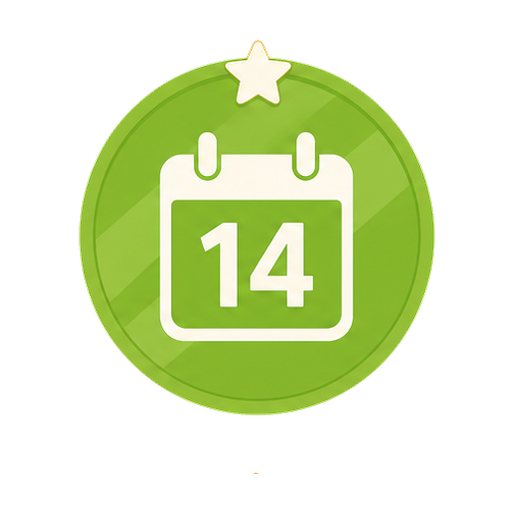
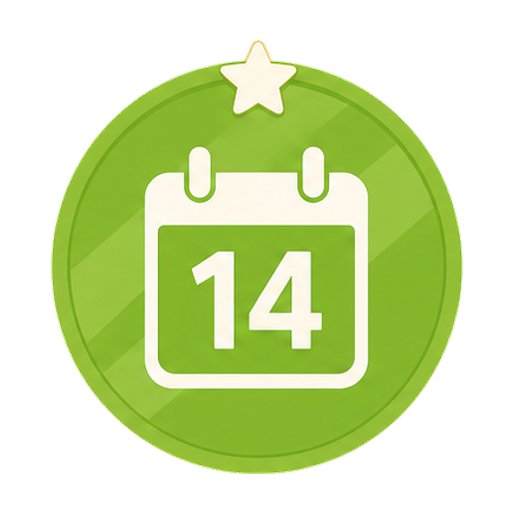
Frame badges on their artwork, not on stray specks
The daily-log badge rendered noticeably smaller than its neighbours and sat
above the centre of its slot. Six badges carry a detached speck a few pixels
across, sitting near the bottom edge of the canvas well clear of the artwork:

  badge-checkin-7-day-v1.png       8x2  at y472, artwork ends at y412
  badge-checkin-14-day-v1.png      8x2  at y472
  badge-level-2-v1.png            12x3  at y471
  badge-level-3-v1.png            11x3  at y471
  badge-level-5-v1.png            21x9  at y465
  badge-semester-day-45-v1.png     9x2  at y472

`badge-lifetime-xp-1000-v1.png` carries three more — 1-7px wide slivers pinned
against the right edge at x475-481, painted in the badge's own gold palette,
clipped remnants of something that ran off the canvas.

The specks are invisible at render size but they are opaque, so the framing
pass treated them as artwork: it scaled the bounding box that spanned artwork
*plus* speck down to the target, and centred that box. For the daily-log badge
that left the disc 374px tall inside a 435px box — 14% smaller than its
neighbours — with its centre 30px above the canvas centre.

Frame on the artwork's body instead: take the largest connected component, keep
anything overlapping its bounding box, and drop components lying entirely
outside it. The dropped pixels are erased so nothing invisible survives. The
daily-log badge's disc goes from 374x368 to 435x429, and measured in the
[…]

diff --git a/apps/web/src/lib/badge-art-framing.test.ts b/apps/web/src/lib/badge-art-framing.test.ts
@@ -138,6 +138,57 @@ function artworkBounds({ width, height, alpha }: DecodedAlpha) {
   return { minX, minY, maxX, maxY };
 }
 
+/**
+ * Connected runs of visible pixels, largest first. Eight-connected, so a shape
+ * joined only at a diagonal still counts as one piece.
+ */
+function connectedComponents({ width, height, alpha }: DecodedAlpha) {
+  const seen = new Uint8Array(width * height);
+  const components: {
+    size: number;
+    minX: number;
+    minY: number;
+    maxX: number;
+    maxY: number;
+  }[] = [];
+
+  for (let start = 0; start < width * height; start++) {
+    if (seen[start] || alpha[start] <= ALPHA_THRESHOLD) continue;
+    const stack = [start];
+    seen[start] = 1;
+    let size = 0;
+    let minX = width;
+    let minY = height;
+    let maxX = -1;
+    let maxY = -1;
+
+    while (stack.length) {
+      const index = stack.pop() as number;
+      const x = index % width;
+      const y = (index / width) | 0;
+      size += 1;
+      if (x < minX) minX = x;
+      if (x > maxX) maxX = x;
+      if (y < minY) minY = y;
+      if (y > maxY) maxY = y;
+      for (let dy = -1; dy <= 1; dy++) {
+        for (let dx = -1; dx <= 1; dx++) {
+          const nx = x + dx;
+          const ny = y + dy;
+          if (nx < 0 || ny < 0 || nx >= width || ny >= height) continue;
+          const next = ny * width + nx;
+          if (seen[next] || alpha[next] <= ALPHA_THRESHOLD) continue;
+          seen[next] = 1;
+          stack.push(next);
+        }
+      }
+    }
+    components.push({ size, minX, minY, maxX, maxY });
+  }
+
+  return components.sort((a, b) => b.size - a.size);
+}
+
 const badgeFiles = readdirSync(BADGE_DIR)
   .filter((name) => name.endsWith(".png"))
   .sort();
@@ -165,6 +216,25 @@ for (const file of badgeFiles) {
     assert.ok(
       Math.abs(offsetY) <= CENTRE_TOLERANCE_PX,
       `${file} artwork is ${offsetY.toFixed(1)}px off centre vertically`,
+    );
+  });
+
+  test(`${file} has no artwork detached from its body`, () => {
+    const image = decodePngAlpha(readFileSync(join(BADGE_DIR, file)));
+    const [body, ...rest] = connectedComponents(image);
+    const detached = rest.filter(
+      (component) =>
+        component.maxX < body.minX ||
+        component.minX > body.maxX ||
+        component.maxY < body.minY ||
+        component.minY > body.maxY,
+    );
+    assert.deepEqual(
+      detached.map(
+        (c) => `${c.maxX - c.minX + 1}x${c.maxY - c.minY + 1} at ${c.minX},${c.minY}`,
+      ),
+      [],
+      `${file} has artwork sitting outside its body, which drags the bounding box out and shrinks the badge`,
     );
   });
 
